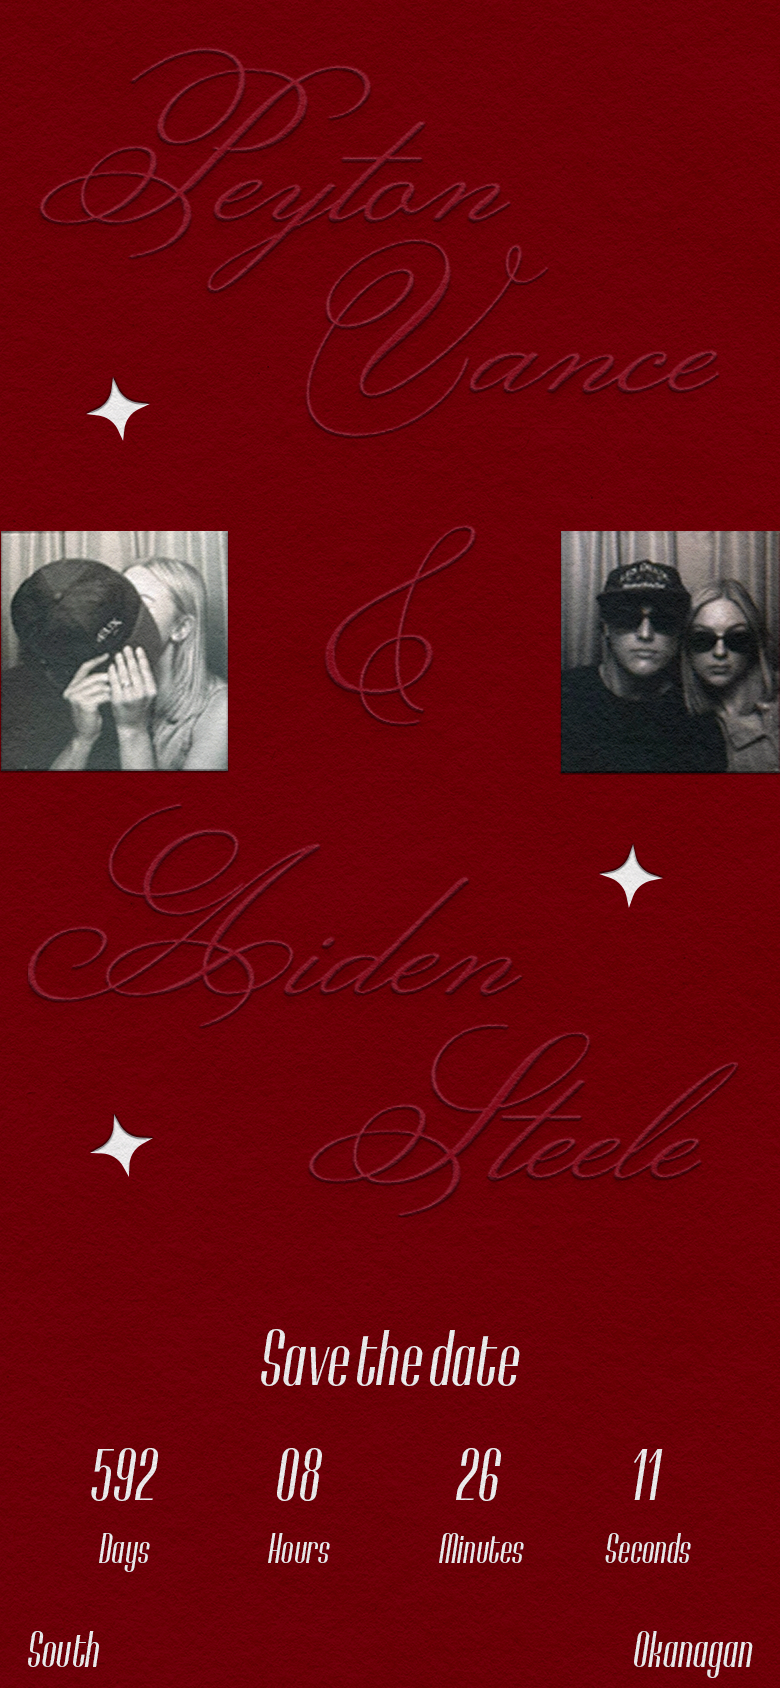
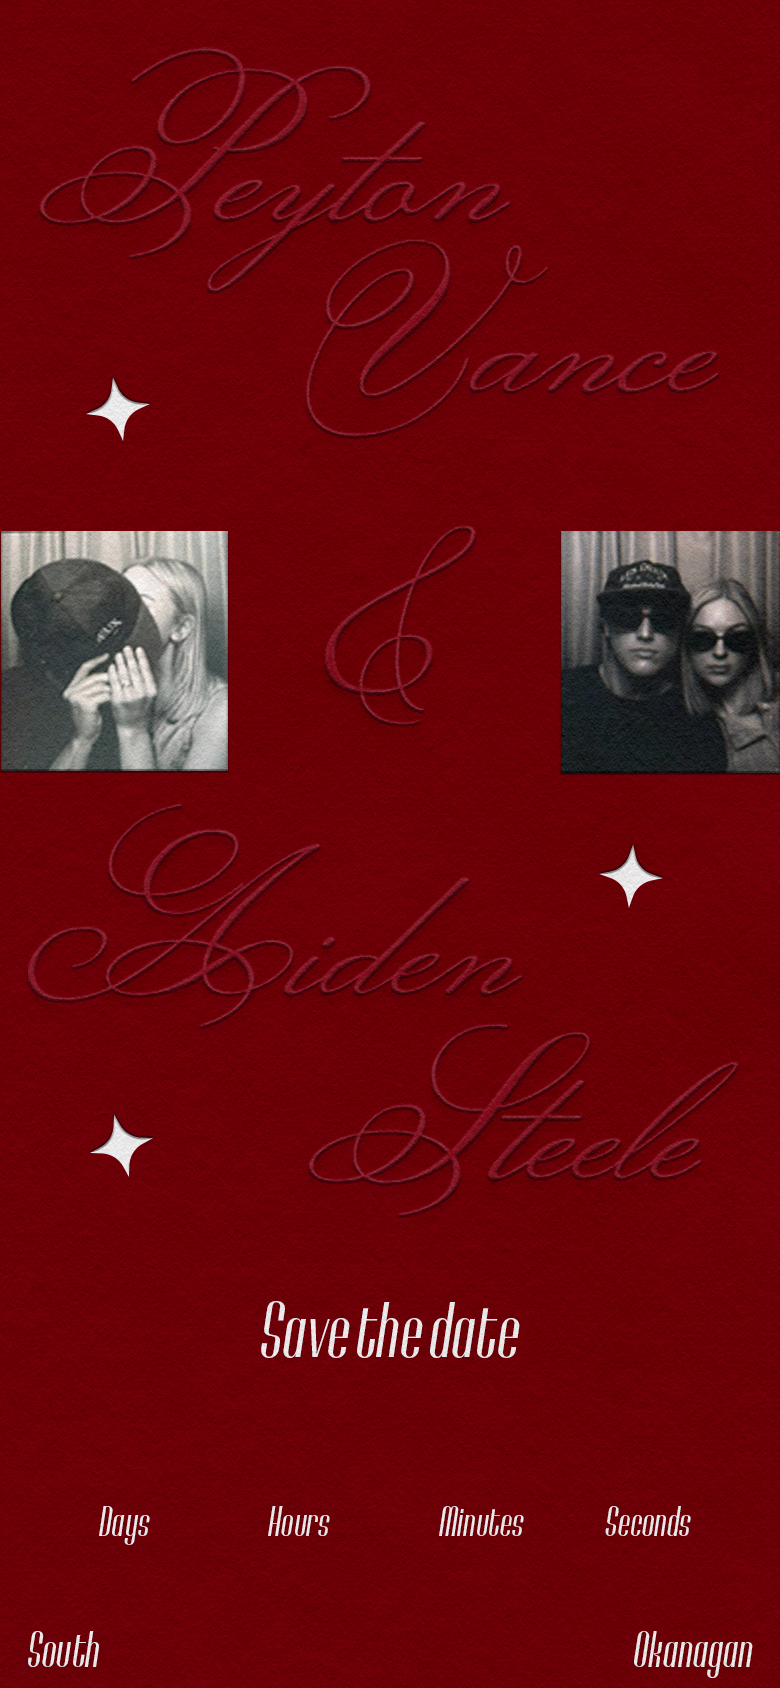
Add files via upload

diff --git a/variant-3/index.html b/variant-3/index.html
@@ -28,10 +28,10 @@
     .countdown {
       position: absolute;
       z-index: 1;
-      top: 84.9%;
+      top: 82.8%;
       left: 5%;
       width: 90%;
-      height: 4.5%;
+      height: 5%;
       display: grid;
       grid-template-columns: repeat(4, 1fr);
       align-items: center;
@@ -39,8 +39,6 @@
       color: #fff8f4;
     }
     .digit {
-      position: relative;
-      isolation: isolate;
       justify-self: center;
       width: 100%;
       height: 100%;
@@ -54,23 +52,6 @@
       font-weight: 300;
       line-height: 1;
       font-variant-numeric: tabular-nums;
-    }
-    /* A softly feathered crop of nearby blank card texture hides the printed sample digits. */
-    .digit::before {
-      content: "";
-      position: absolute;
-      z-index: -1;
-      left: 50%;
-      top: 0;
-      width: 75%;
-      height: 100%;
-      transform: translateX(-50%);
-      background-image: url("assets/card-red.png");
-      background-size: 100vw 100dvh;
-      background-position: -12% 0%;
-      background-repeat: no-repeat;
-      -webkit-mask-image: radial-gradient(ellipse at center, #000 63%, transparent 100%);
-      mask-image: radial-gradient(ellipse at center, #000 63%, transparent 100%);
     }
     .number {
       display: inline-block;
@@ -86,7 +67,6 @@
         width: min(46.2085dvh, 780px);
         height: 100dvh;
       }
-      .digit::before { background-size: min(46.2085dvh, 780px) 100dvh; }
       .digit { font-size: clamp(22px, 3.15dvh, 49px); }
     }
   </style>

diff --git a/variant-3/README.md b/variant-3/README.md
@@ -1,6 +1,6 @@
 # Save the Date — red design, version 3
 
-This folder contains the third design option. It uses the supplied red card artwork, keeps the upper design in place, and replaces the sample countdown numbers with a live countdown. The numbers sit directly on the card texture without solid colored boxes.
+This folder contains the third design option. It uses the supplied red card artwork, keeps the design in place, and adds a live countdown in the open space below “Save the date” and above the printed unit labels. The numbers sit directly on the card texture without added boxes.
 
 The date and time zone are shared with the main site through `../event-config.js`: June 17, 2028, in `America/Vancouver`. The countdown runs to midnight at the start of that date.
 
